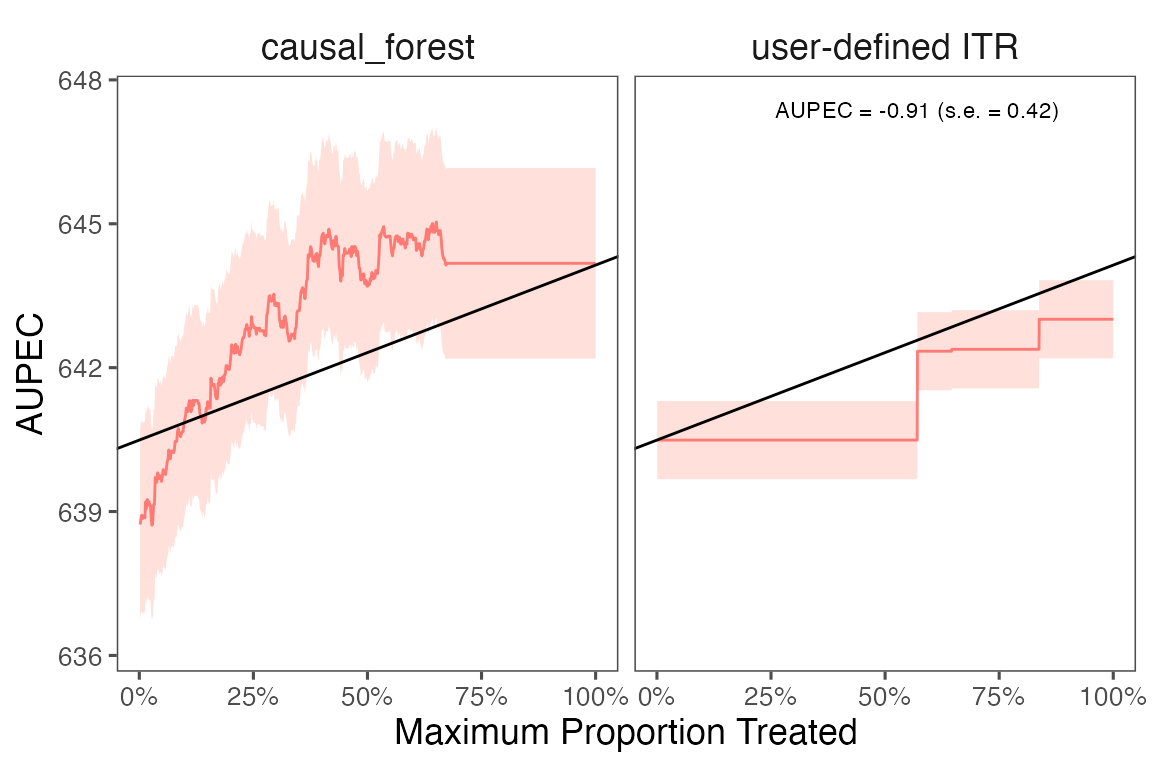
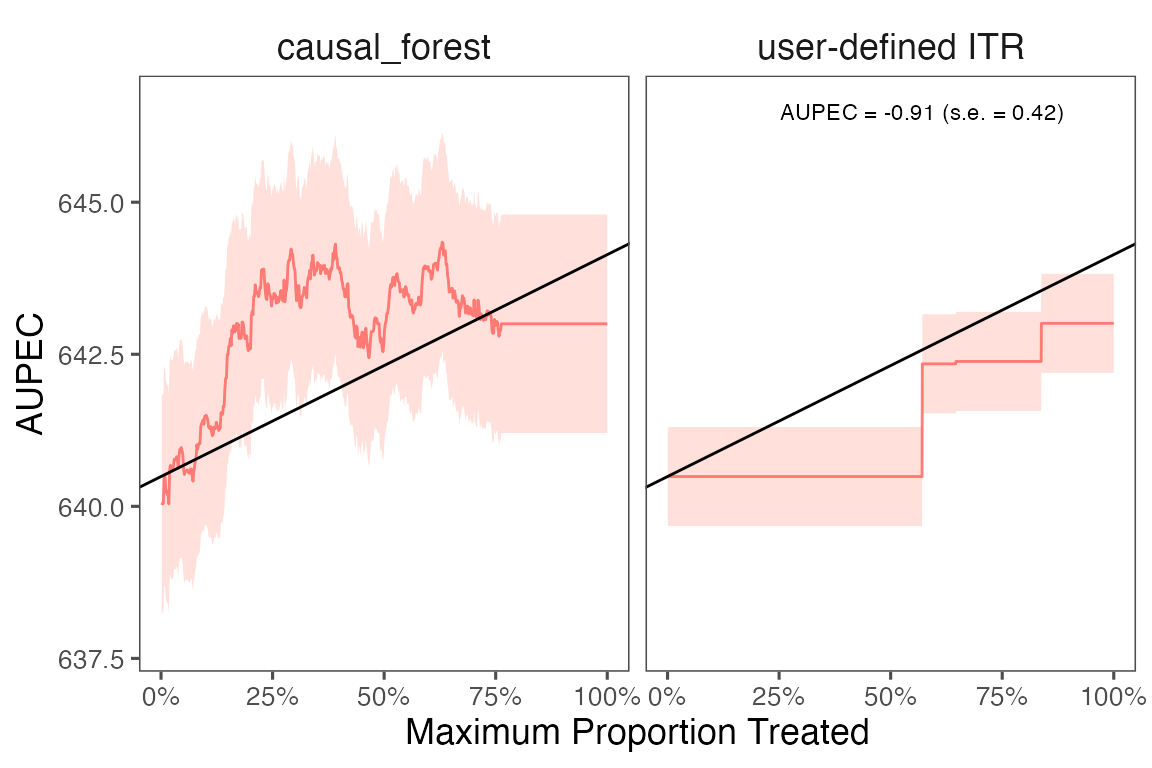
update plot

diff --git a/docs/articles/user_itr_algs.html b/docs/articles/user_itr_algs.html
@@ -178,29 +178,29 @@ and AUPEC for the user defined ITR.</p>
 <span><span class="fu"><a href="https://rdrr.io/r/base/summary.html" class="external-link">summary</a></span><span class="op">(</span><span class="va">compare_itr</span><span class="op">)</span></span>
 <span><span class="co">#&gt; ── PAPE ────────────────────────────────────────────────────────────────────────</span></span>
 <span><span class="co">#&gt;   estimate std.deviation     algorithm statistic p.value</span></span>
-<span><span class="co">#&gt; 1     0.47           1.3 causal_forest      0.36    0.72</span></span>
-<span><span class="co">#&gt; 2     0.00           0.0      user_itr       NaN     NaN</span></span>
+<span><span class="co">#&gt; 1      0.5           1.1 causal_forest      0.45    0.65</span></span>
+<span><span class="co">#&gt; 2      0.0           0.0      user_itr       NaN     NaN</span></span>
 <span><span class="co">#&gt; </span></span>
 <span><span class="co">#&gt; ── PAPEp ───────────────────────────────────────────────────────────────────────</span></span>
 <span><span class="co">#&gt;   estimate std.deviation     algorithm statistic p.value</span></span>
-<span><span class="co">#&gt; 1      2.2          1.17 causal_forest       1.9   0.064</span></span>
-<span><span class="co">#&gt; 2      1.1          0.67      user_itr       1.6   0.115</span></span>
+<span><span class="co">#&gt; 1      1.8          1.13 causal_forest       1.6    0.11</span></span>
+<span><span class="co">#&gt; 2      1.1          0.67      user_itr       1.6    0.11</span></span>
 <span><span class="co">#&gt; </span></span>
 <span><span class="co">#&gt; ── PAPDp ───────────────────────────────────────────────────────────────────────</span></span>
 <span><span class="co">#&gt; Cannot compute PAPDp</span></span>
 <span><span class="co">#&gt; </span></span>
 <span><span class="co">#&gt; ── AUPEC ───────────────────────────────────────────────────────────────────────</span></span>
 <span><span class="co">#&gt;   estimate std.deviation     algorithm statistic p.value</span></span>
-<span><span class="co">#&gt; 1     0.96          1.01 causal_forest      0.95   0.342</span></span>
-<span><span class="co">#&gt; 2    -0.91          0.42          &lt;NA&gt;     -2.19   0.028</span></span>
+<span><span class="co">#&gt; 1     1.25          0.92 causal_forest       1.4   0.171</span></span>
+<span><span class="co">#&gt; 2    -0.91          0.42          &lt;NA&gt;      -2.2   0.028</span></span>
 <span><span class="co">#&gt; </span></span>
 <span><span class="co">#&gt; ── GATE ────────────────────────────────────────────────────────────────────────</span></span>
 <span><span class="co">#&gt;    estimate std.deviation     algorithm group statistic p.value  upper lower</span></span>
-<span><span class="co">#&gt; 1       221           107 causal_forest     1      2.07   0.039   45.3   397</span></span>
-<span><span class="co">#&gt; 2      -209           108 causal_forest     2     -1.94   0.052 -386.0   -32</span></span>
-<span><span class="co">#&gt; 3       -53           107 causal_forest     3     -0.49   0.624 -228.9   124</span></span>
-<span><span class="co">#&gt; 4       149           109 causal_forest     4      1.36   0.173  -30.8   328</span></span>
-<span><span class="co">#&gt; 5       -70           107 causal_forest     5     -0.65   0.513 -245.9   106</span></span>
+<span><span class="co">#&gt; 1       -30           108 causal_forest     1     -0.27   0.784 -207.8   148</span></span>
+<span><span class="co">#&gt; 2      -126           108 causal_forest     2     -1.17   0.243 -302.5    51</span></span>
+<span><span class="co">#&gt; 3        58           108 causal_forest     3      0.54   0.590 -119.6   236</span></span>
+<span><span class="co">#&gt; 4       -37           108 causal_forest     4     -0.34   0.735 -214.3   141</span></span>
+<span><span class="co">#&gt; 5       149           107 causal_forest     5      1.39   0.164  -27.2   325</span></span>
 <span><span class="co">#&gt; 6       126            58      user_itr     1      2.16   0.031   30.2   222</span></span>
 <span><span class="co">#&gt; 7        96            59      user_itr     2      1.62   0.105   -1.4   194</span></span>
 <span><span class="co">#&gt; 8       -33            59      user_itr     3     -0.56   0.579 -129.7    64</span></span>
@@ -329,35 +329,35 @@ defined model via cross-validation.</p>
 <span><span class="fu"><a href="https://rdrr.io/r/base/summary.html" class="external-link">summary</a></span><span class="op">(</span><span class="va">compare_est</span><span class="op">)</span></span>
 <span><span class="co">#&gt; ── PAPE ────────────────────────────────────────────────────────────────────────</span></span>
 <span><span class="co">#&gt;   estimate std.deviation     algorithm statistic p.value</span></span>
-<span><span class="co">#&gt; 1  5.7e-01       1.5e+00 causal_forest   3.8e-01     0.7</span></span>
-<span><span class="co">#&gt; 2  4.4e-16       2.8e-09    user_model   1.6e-07     1.0</span></span>
+<span><span class="co">#&gt; 1      1.5           1.2 causal_forest       1.2    0.22</span></span>
+<span><span class="co">#&gt; 2      0.0           0.0    user_model       NaN     NaN</span></span>
 <span><span class="co">#&gt; </span></span>
 <span><span class="co">#&gt; ── PAPEp ───────────────────────────────────────────────────────────────────────</span></span>
 <span><span class="co">#&gt;   estimate std.deviation     algorithm statistic p.value</span></span>
-<span><span class="co">#&gt; 1     0.64           1.2 causal_forest      0.54    0.59</span></span>
-<span><span class="co">#&gt; 2    -0.76           1.2    user_model     -0.61    0.54</span></span>
+<span><span class="co">#&gt; 1      2.1           1.2 causal_forest       1.8   0.078</span></span>
+<span><span class="co">#&gt; 2      1.8           1.2    user_model       1.5   0.121</span></span>
 <span><span class="co">#&gt; </span></span>
 <span><span class="co">#&gt; ── PAPDp ───────────────────────────────────────────────────────────────────────</span></span>
 <span><span class="co">#&gt;   estimate std.deviation                  algorithm statistic p.value</span></span>
-<span><span class="co">#&gt; 1      1.4           1.9 causal_forest x user_model      0.75    0.45</span></span>
+<span><span class="co">#&gt; 1     0.26           1.7 causal_forest x user_model      0.16    0.87</span></span>
 <span><span class="co">#&gt; </span></span>
 <span><span class="co">#&gt; ── AUPEC ───────────────────────────────────────────────────────────────────────</span></span>
 <span><span class="co">#&gt;   estimate std.deviation     algorithm statistic p.value</span></span>
-<span><span class="co">#&gt; 1    0.048          1.12 causal_forest     0.043    0.97</span></span>
-<span><span class="co">#&gt; 2   -0.177          0.88    user_model    -0.201    0.84</span></span>
+<span><span class="co">#&gt; 1     1.41          0.94 causal_forest       1.5    0.13</span></span>
+<span><span class="co">#&gt; 2     0.48          0.79    user_model       0.6    0.55</span></span>
 <span><span class="co">#&gt; </span></span>
 <span><span class="co">#&gt; ── GATE ────────────────────────────────────────────────────────────────────────</span></span>
 <span><span class="co">#&gt;    estimate std.deviation     algorithm group statistic p.value upper lower</span></span>
-<span><span class="co">#&gt; 1     -74.8           107 causal_forest     1    -0.696  0.4865  -251   102</span></span>
-<span><span class="co">#&gt; 2      27.1           108 causal_forest     2     0.251  0.8018  -151   205</span></span>
-<span><span class="co">#&gt; 3      53.9           109 causal_forest     3     0.493  0.6218  -126   234</span></span>
-<span><span class="co">#&gt; 4     -85.3           108 causal_forest     4    -0.790  0.4295  -263    92</span></span>
-<span><span class="co">#&gt; 5     103.6           108 causal_forest     5     0.963  0.3353   -73   280</span></span>
-<span><span class="co">#&gt; 6       1.8           106    user_model     1     0.017  0.9863  -173   177</span></span>
-<span><span class="co">#&gt; 7    -339.5           106    user_model     2    -3.200  0.0014  -514  -165</span></span>
-<span><span class="co">#&gt; 8    -163.2           106    user_model     3    -1.534  0.1251  -338    12</span></span>
-<span><span class="co">#&gt; 9     292.6           109    user_model     4     2.681  0.0073   113   472</span></span>
-<span><span class="co">#&gt; 10    232.9           110    user_model     5     2.111  0.0347    51   414</span></span>
+<span><span class="co">#&gt; 1       -94           107 causal_forest     1     -0.88 3.8e-01  -269    82</span></span>
+<span><span class="co">#&gt; 2        66           108 causal_forest     2      0.61 5.4e-01  -111   244</span></span>
+<span><span class="co">#&gt; 3       -19           109 causal_forest     3     -0.18 8.6e-01  -198   159</span></span>
+<span><span class="co">#&gt; 4       -32           108 causal_forest     4     -0.30 7.6e-01  -209   144</span></span>
+<span><span class="co">#&gt; 5        90           107 causal_forest     5      0.85 4.0e-01   -86   266</span></span>
+<span><span class="co">#&gt; 6      -151           105    user_model     1     -1.44 1.5e-01  -323    22</span></span>
+<span><span class="co">#&gt; 7      -770           103    user_model     2     -7.51 5.9e-14  -939  -601</span></span>
+<span><span class="co">#&gt; 8      -113           107    user_model     3     -1.05 2.9e-01  -290    63</span></span>
+<span><span class="co">#&gt; 9       284           108    user_model     4      2.62 8.7e-03   106   463</span></span>
+<span><span class="co">#&gt; 10      761           104    user_model     5      7.31 2.7e-13   589   932</span></span>
 <span><span class="fu"><a href="https://rdrr.io/r/graphics/plot.default.html" class="external-link">plot</a></span><span class="op">(</span><span class="va">compare_est</span><span class="op">)</span></span></code></pre></div>
 <p><img src="../reference/figures/README-compare_itr_model_summary-1.png" width="700"></p>
 </div>

diff --git a/docs/articles/sample_split.html b/docs/articles/sample_split.html
@@ -183,26 +183,26 @@ machine learning algorithms)</td>
 <span><span class="fu"><a href="https://rdrr.io/r/base/summary.html" class="external-link">summary</a></span><span class="op">(</span><span class="va">est</span><span class="op">)</span></span>
 <span><span class="co">#&gt; ── PAPE ────────────────────────────────────────────────────────────────────────</span></span>
 <span><span class="co">#&gt;   estimate std.deviation     algorithm statistic p.value</span></span>
-<span><span class="co">#&gt; 1     0.25          0.82 causal_forest       0.3    0.76</span></span>
+<span><span class="co">#&gt; 1    -0.45           1.2 causal_forest     -0.37    0.71</span></span>
 <span><span class="co">#&gt; </span></span>
 <span><span class="co">#&gt; ── PAPEp ───────────────────────────────────────────────────────────────────────</span></span>
 <span><span class="co">#&gt;   estimate std.deviation     algorithm statistic p.value</span></span>
-<span><span class="co">#&gt; 1      2.2           1.2 causal_forest       1.8   0.075</span></span>
+<span><span class="co">#&gt; 1      1.5           1.1 causal_forest       1.4    0.16</span></span>
 <span><span class="co">#&gt; </span></span>
 <span><span class="co">#&gt; ── PAPDp ───────────────────────────────────────────────────────────────────────</span></span>
 <span><span class="co">#&gt; Cannot compute PAPDp</span></span>
 <span><span class="co">#&gt; </span></span>
 <span><span class="co">#&gt; ── AUPEC ───────────────────────────────────────────────────────────────────────</span></span>
 <span><span class="co">#&gt;   estimate std.deviation     algorithm statistic p.value</span></span>
-<span><span class="co">#&gt; 1      1.7          0.89 causal_forest       1.9   0.056</span></span>
+<span><span class="co">#&gt; 1     0.94          0.93 causal_forest         1    0.31</span></span>
 <span><span class="co">#&gt; </span></span>
 <span><span class="co">#&gt; ── GATE ────────────────────────────────────────────────────────────────────────</span></span>
 <span><span class="co">#&gt;   estimate std.deviation     algorithm group statistic p.value upper lower</span></span>
-<span><span class="co">#&gt; 1      -32           107 causal_forest     1     -0.30    0.77  -208   145</span></span>
-<span><span class="co">#&gt; 2       54           109 causal_forest     2      0.50    0.62  -125   233</span></span>
-<span><span class="co">#&gt; 3      -26           109 causal_forest     3     -0.24    0.81  -205   152</span></span>
-<span><span class="co">#&gt; 4     -145           107 causal_forest     4     -1.36    0.17  -321    30</span></span>
-<span><span class="co">#&gt; 5      147           108 causal_forest     5      1.36    0.17   -31   325</span></span></code></pre></div>
+<span><span class="co">#&gt; 1     37.0           109 causal_forest     1     0.340    0.73  -142   216</span></span>
+<span><span class="co">#&gt; 2    -45.9           108 causal_forest     2    -0.426    0.67  -223   132</span></span>
+<span><span class="co">#&gt; 3     33.9           109 causal_forest     3     0.311    0.76  -145   213</span></span>
+<span><span class="co">#&gt; 4      6.1           108 causal_forest     4     0.056    0.96  -172   184</span></span>
+<span><span class="co">#&gt; 5    -15.2           107 causal_forest     5    -0.143    0.89  -191   160</span></span></code></pre></div>
 <p>We can extract estimates from the <code>est</code> object. The
 following code shows how to extract the GATE estimates for the writing
 score with the causal forest algorithm. We can also plot the estimates
@@ -214,48 +214,9 @@ estimates to be plotted (<code>GATE</code>, <code>PAPE</code>,
 <span><span class="kw"><a href="https://rdrr.io/r/base/library.html" class="external-link">library</a></span><span class="op">(</span><span class="va"><a href="https://ggplot2.tidyverse.org" class="external-link">ggplot2</a></span><span class="op">)</span></span>
 <span><span class="va">gate_est</span> <span class="op">&lt;-</span> <span class="fu"><a href="https://rdrr.io/r/base/summary.html" class="external-link">summary</a></span><span class="op">(</span><span class="va">est</span><span class="op">)</span><span class="op">$</span><span class="va">GATE</span></span>
 <span></span>
-<span><span class="fu"><a href="../reference/plot_estimate.html">plot_estimate</a></span><span class="op">(</span><span class="va">gate_est</span>, type <span class="op">=</span> <span class="st">"GATE"</span><span class="op">)</span> <span class="op"><a href="https://magrittr.tidyverse.org/reference/pipe.html" class="external-link">%&gt;%</a></span></span>
-<span>  <span class="fu"><a href="https://ggplot2.tidyverse.org/reference/scale_manual.html" class="external-link">scale_color_manual</a></span><span class="op">(</span>values <span class="op">=</span> <span class="fu"><a href="https://rdrr.io/r/base/c.html" class="external-link">c</a></span><span class="op">(</span><span class="st">"#0072B2"</span><span class="op">)</span><span class="op">)</span></span>
-<span><span class="co">#&gt; &lt;ggproto object: Class ScaleDiscrete, Scale, gg&gt;</span></span>
-<span><span class="co">#&gt;     aesthetics: colour</span></span>
-<span><span class="co">#&gt;     axis_order: function</span></span>
-<span><span class="co">#&gt;     break_info: function</span></span>
-<span><span class="co">#&gt;     break_positions: function</span></span>
-<span><span class="co">#&gt;     breaks: waiver</span></span>
-<span><span class="co">#&gt;     call: call</span></span>
-<span><span class="co">#&gt;     clone: function</span></span>
-<span><span class="co">#&gt;     dimension: function</span></span>
-<span><span class="co">#&gt;     drop: TRUE</span></span>
-<span><span class="co">#&gt;     expand: waiver</span></span>
-<span><span class="co">#&gt;     get_breaks: function</span></span>
-<span><span class="co">#&gt;     get_breaks_minor: function</span></span>
-<span><span class="co">#&gt;     get_labels: function</span></span>
-<span><span class="co">#&gt;     get_limits: function</span></span>
-<span><span class="co">#&gt;     guide: legend</span></span>
-<span><span class="co">#&gt;     is_discrete: function</span></span>
-<span><span class="co">#&gt;     is_empty: function</span></span>
-<span><span class="co">#&gt;     labels: waiver</span></span>
-<span><span class="co">#&gt;     limits: NULL</span></span>
-<span><span class="co">#&gt;     make_sec_title: function</span></span>
-<span><span class="co">#&gt;     make_title: function</span></span>
-<span><span class="co">#&gt;     map: function</span></span>
-<span><span class="co">#&gt;     map_df: function</span></span>
-<span><span class="co">#&gt;     n.breaks.cache: NULL</span></span>
-<span><span class="co">#&gt;     na.translate: TRUE</span></span>
-<span><span class="co">#&gt;     na.value: grey50</span></span>
-<span><span class="co">#&gt;     name: NULL</span></span>
-<span><span class="co">#&gt;     palette: function</span></span>
-<span><span class="co">#&gt;     palette.cache: NULL</span></span>
-<span><span class="co">#&gt;     position: left</span></span>
-<span><span class="co">#&gt;     range: environment</span></span>
-<span><span class="co">#&gt;     rescale: function</span></span>
-<span><span class="co">#&gt;     reset: function</span></span>
-<span><span class="co">#&gt;     scale_name: manual</span></span>
-<span><span class="co">#&gt;     train: function</span></span>
-<span><span class="co">#&gt;     train_df: function</span></span>
-<span><span class="co">#&gt;     transform: function</span></span>
-<span><span class="co">#&gt;     transform_df: function</span></span>
-<span><span class="co">#&gt;     super:  &lt;ggproto object: Class ScaleDiscrete, Scale, gg&gt;</span></span></code></pre></div>
+<span><span class="fu"><a href="../reference/plot_estimate.html">plot_estimate</a></span><span class="op">(</span><span class="va">gate_est</span>, type <span class="op">=</span> <span class="st">"GATE"</span><span class="op">)</span> <span class="op">+</span></span>
+<span>  <span class="fu"><a href="https://ggplot2.tidyverse.org/reference/scale_manual.html" class="external-link">scale_color_manual</a></span><span class="op">(</span>values <span class="op">=</span> <span class="fu"><a href="https://rdrr.io/r/base/c.html" class="external-link">c</a></span><span class="op">(</span><span class="st">"#0072B2"</span>, <span class="st">"#D55E00"</span><span class="op">)</span><span class="op">)</span></span></code></pre></div>
+<p><img src="../reference/figures/README-est_extract-1.png" width="576"></p>
 <p>We plot the estimated Area Under the Prescriptive Effect Curve for
 the writing score across a range of budget constraints for causal
 forest.</p>
